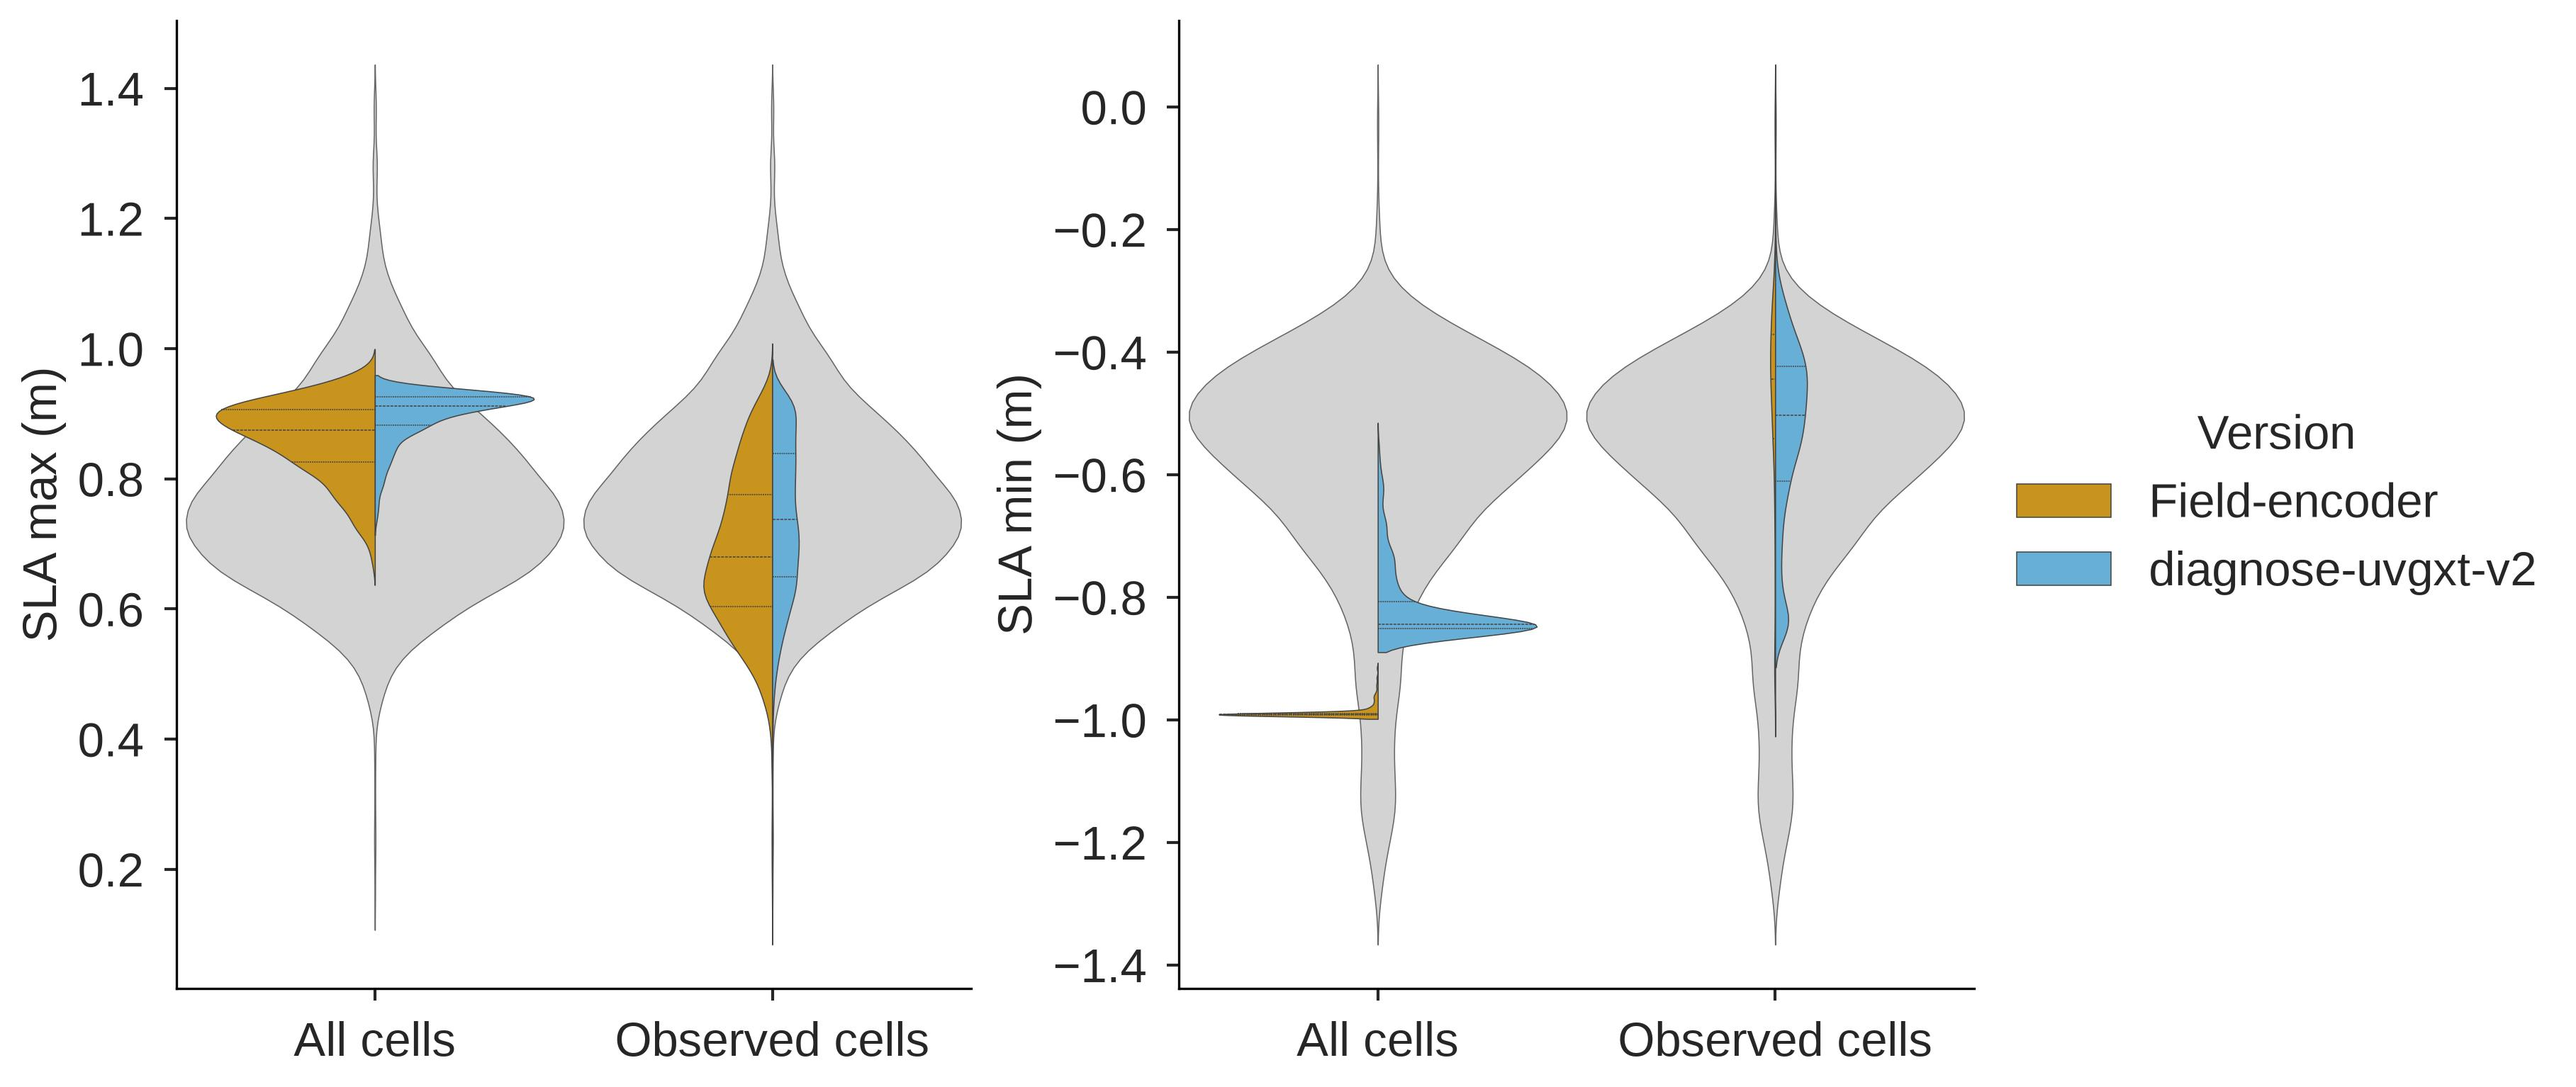
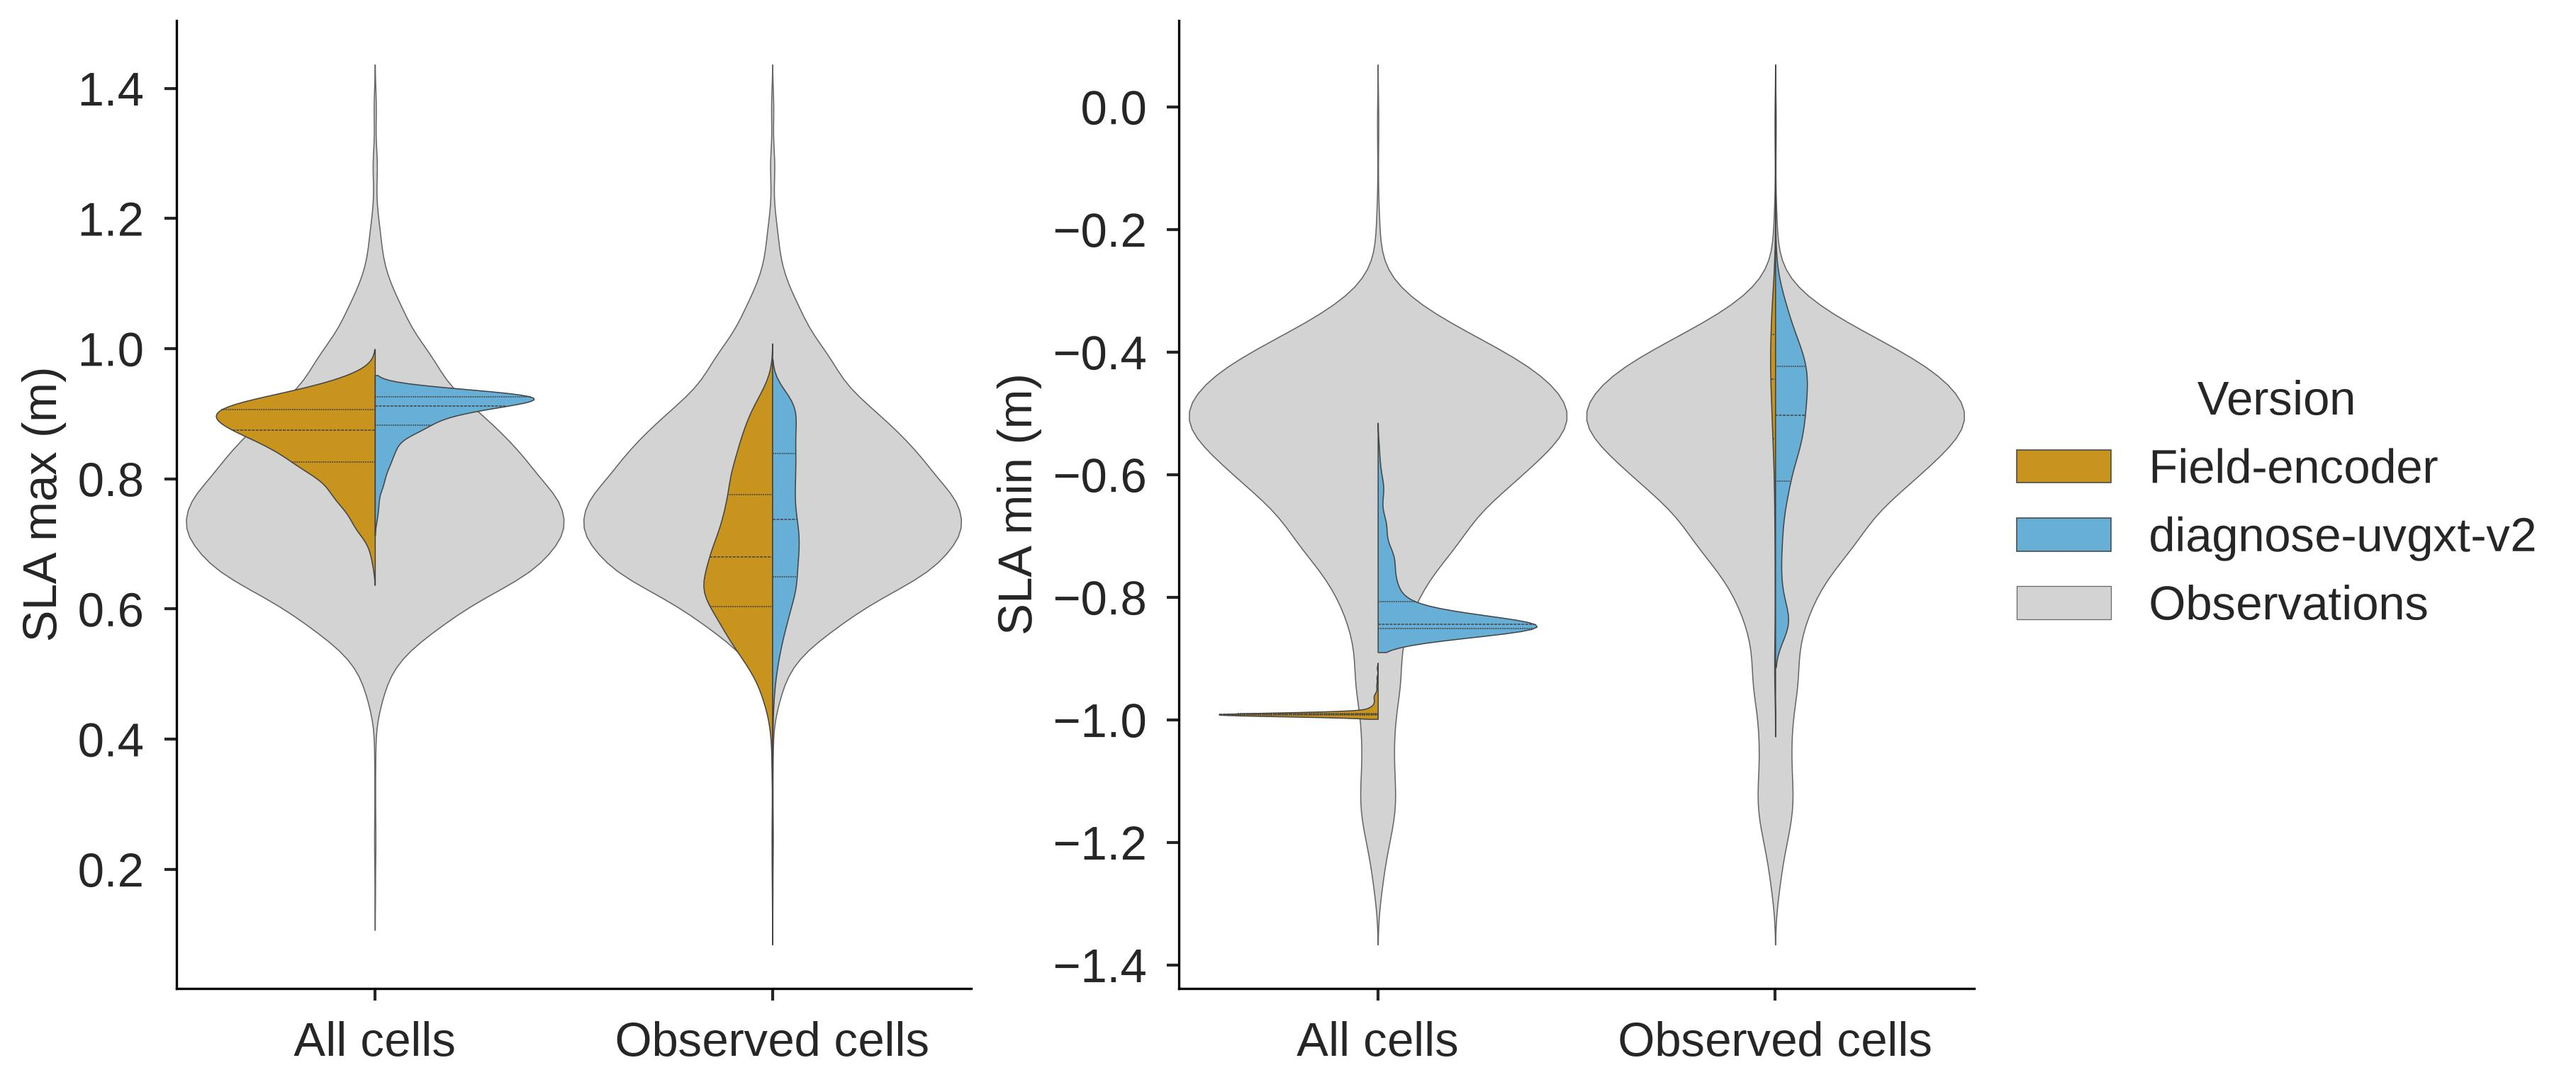
update legend to say what that gray blob is

Changed region(s): [[0.7774, 0.337, 0.995, 0.5821]]

diff --git a/experimental/diagnose-uvgxt/plot_metrics.py b/experimental/diagnose-uvgxt/plot_metrics.py
@@ -8,6 +8,7 @@ BASELINE_DIR = None, the experiment gets one full violin, in the color it has be
 from pathlib import Path
 
 import matplotlib.pyplot as plt
+from matplotlib.patches import Patch
 import seaborn as sns
 import xarray as xr
 
@@ -77,6 +78,14 @@ def tidy(ds, x_dim):
     return df
 
 
+def place_legend(ax, reference_label):
+    """The versions' legend, outside the axes, with the gray reference violin added."""
+    legend = ax.get_legend()
+    handles = [*legend.legend_handles, Patch(facecolor="lightgray", edgecolor="0.4")]
+    labels = [*(text.get_text() for text in legend.get_texts()), prettify(reference_label)]
+    ax.legend(handles, labels, loc="center left", bbox_to_anchor=(1, 0.5), title="Version", frameon=False)
+
+
 def version_colors():
     """Baseline then experiment, in the style's color cycle, whether or not the baseline is drawn."""
     return dict(zip([prettify(BASELINE_LABEL), prettify(EXPERIMENT_LABEL)], sns.color_palette()))
@@ -141,7 +150,7 @@ def make_figure(model, persistence, x_dim, name, rotate_xticks):
         draw_panel(ax, model, persistence, metric, x_dim)
         if ax is not axs[0]:
             ax.get_legend().remove()
-    sns.move_legend(axs[0], "center left", bbox_to_anchor=(1, 0.5), title="Version", frameon=False)
+    place_legend(axs[0], PERSISTENCE_LABEL)
     if rotate_xticks:
         axs[-1].set_xticks(axs[-1].get_xticks())
         axs[-1].set_xticklabels(

diff --git a/experimental/diagnose-uvgxt/plot_extremes.py b/experimental/diagnose-uvgxt/plot_extremes.py
@@ -15,6 +15,7 @@ fhr=0, the only lead time forecast.zarr stores them at.
 from pathlib import Path
 
 import matplotlib.pyplot as plt
+from matplotlib.patches import Patch
 import numpy as np
 import pandas as pd
 import seaborn as sns
@@ -61,6 +62,14 @@ def prettify(name):
         word if keep(word) else word.upper() if word.lower() in ACRONYMS else word.capitalize()
         for word in words
     )
+
+
+def place_legend(ax, reference_label):
+    """The versions' legend, outside the axes, with the gray reference violin added."""
+    legend = ax.get_legend()
+    handles = [*legend.legend_handles, Patch(facecolor="lightgray", edgecolor="0.4")]
+    labels = [*(text.get_text() for text in legend.get_texts()), prettify(reference_label)]
+    ax.legend(handles, labels, loc="center left", bbox_to_anchor=(1, 0.5), title="Version", frameon=False)
 
 
 def version_colors():
@@ -160,7 +169,7 @@ def make_figure(field):
     for extreme, ax in zip(("max", "min"), axs):
         draw_panel(ax, df, extreme, field)
     axs[0].get_legend().remove()
-    sns.move_legend(axs[1], "center left", bbox_to_anchor=(1, 0.5), title="Version", frameon=False)
+    place_legend(axs[1], OBSERVATIONS_LABEL)
 
     path = here / FIG_DIR / f"extremes.{field}.jpeg"
     fig.savefig(path, dpi=300, bbox_inches="tight")
